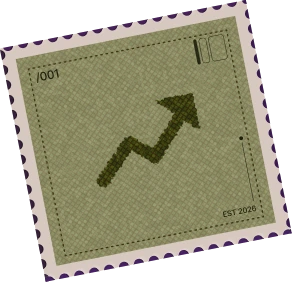
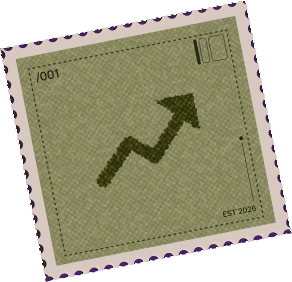
changes

diff --git a/modules/landing/components/launch/launch-wheel.tsx b/modules/landing/components/launch/launch-wheel.tsx
@@ -24,16 +24,24 @@ const homeSteps = ["We connect the systems.", "Configure the experience.", "Test
 
 /**
  * Figma "Stamps" (3492:23027): each step's own stamp, in step order. Figma renders their guilloché
- * (a shader fill) and icons; exported at 3x and cut out on transparency, each 97.35 × 93.93 with its tilt.
+ * (a shader fill) and icons; exported at 3x PNG (292 × 282, each 97.35 × 93.93 with its tilt), cut out of the export's
+ * grey surround onto transparency (edge pixels un-mixed from the grey) and saved as WebP at quality 95 / alpha 100.
  */
 const homeStamps = [stampConnect, stampConfigure, stampTest, stampLaunch, stampWatch, stampImprove];
 
-/** Server markup is Figma's still frame: the middle step active, its neighbours muted, the ends fading out. */
+/**
+ * The slot the active step sits in, as Figma 3073:21934 sets it: the third of six (two steps above it, three below),
+ * the middle one for an odd count.
+ */
+const activeSlot = (n: number) => Math.ceil(n / 2) - 1;
+
+/** Server markup is Figma's still frame: the step in the active slot active, the top and bottom steps fading out. */
 function stillState(i: number, n: number) {
-  const rel = i - Math.floor(n / 2);
+  const top = activeSlot(n);
+  const rel = i - top;
   if (rel === 0) return "active";
-  if (rel === -2) return "fade-top";
-  if (rel === 2) return "fade-bottom";
+  if (rel === -top) return "fade-top";
+  if (rel === n - 1 - top) return "fade-bottom";
   return "muted";
 }
 
@@ -65,7 +73,7 @@ function startWheel(row: HTMLElement, list: HTMLOListElement, pile: HTMLElement,
   const items = Array.from(list.querySelectorAll<Item>("[data-step]"));
   const buttons = items.map((item) => item.querySelector("button")!);
   const n = items.length;
-  const half = Math.floor(n / 2);
+  const half = activeSlot(n);
   const maxRel = n - 1 - half;
   const reduce = window.matchMedia("(prefers-reduced-motion: reduce)");
   const motion = () => !reduce.matches;
@@ -394,7 +402,7 @@ export function LaunchWheel({
   const templateRefs = useRef<(HTMLImageElement | null)[]>([]);
   const stamps = stamp ? [stamp] : homeStamps;
   // The still frame shows the middle step's stamp, as its steps show that step active.
-  const still = Math.floor(steps.length / 2) % stamps.length;
+  const still = activeSlot(steps.length) % stamps.length;
 
   useEffect(() => {
     const row = listRef.current?.parentElement;

diff --git a/modules/marketing/components/site-footer.tsx b/modules/marketing/components/site-footer.tsx
@@ -88,9 +88,13 @@ function Tagline() {
 export function SiteFooter() {
   return (
     <footer className="@container relative overflow-clip pt-24 pb-24 lg:pt-[93px] lg:pb-[115.47px]">
-      {/* #00331A with Figma's grain tile laid over it: 172.82px tiles, soft-light at 40%. */}
+      {/*
+        Figma's grain tile laid over the green: 172.82px tiles, soft-light at 40%. Figma sets #00331A under it, but the
+        browser's soft-light lightens it more than Figma's does (to about rgb(0, 52, 27) against Figma's rendered
+        rgb(4, 48, 25)), so the base is #042F18, which the same grain brings out at Figma's colour.
+      */}
       <div aria-hidden className="pointer-events-none absolute inset-0">
-        <div className="absolute inset-0 bg-[#00331A]" />
+        <div className="absolute inset-0 bg-[#042F18]" />
         <div
           className="absolute inset-0 bg-size-[172.82454997301102px_172.82454997301102px] bg-top-left opacity-40 mix-blend-soft-light"
           style={{ backgroundImage: `url(${grainTile.src})` }}
